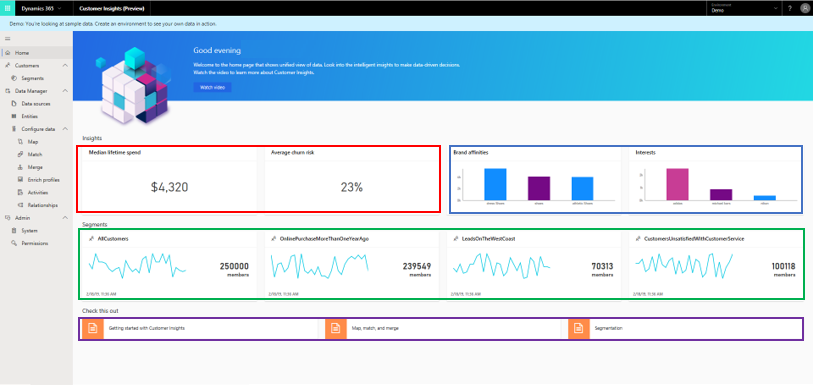
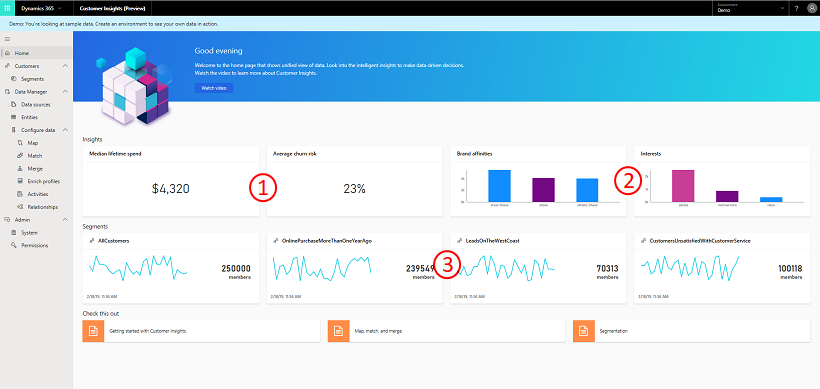
image work

diff --git a/ai-docs/customer-insights/pm-activities.md b/ai-docs/customer-insights/pm-activities.md
@@ -75,9 +75,7 @@ This step includes all your activity definitions. We will explore those from lef
 - **Icon**: You may add an icon to easily distinguish this activity on the timeline. You can add an icon to your activity if it's publicly available. A URL address or Unicode is required.
 - **Delete button**: Selecting the button that is highlighted in the image above will delete that specific activity.
   
-You may now define your next activity, which can be done via Add as highlighted in red below. Don't forget to save your activities (shown in blue).
-
-// 1 <!-- replace red with 1 and blue with 2-->
+You may now define your next activity, which can be done via **Add**. Don't forget to save your activities.
 
 > [!div class="mx-imgBorder"] 
 > ![](media/activities-add-save-entity.png "Save and add activities entities")

diff --git a/ai-docs/customer-insights/pm-homepage.md b/ai-docs/customer-insights/pm-homepage.md
@@ -37,7 +37,6 @@ The **Home** page is designed to equip you with a holistic view around your unif
 
 The image below shows the types of insights you can expect to view on the **Home** page.
 
-// 1
 > [!div class="mx-imgBorder"] 
 > ![](media/home-page-insights2.png "Insights on Home page")
 
